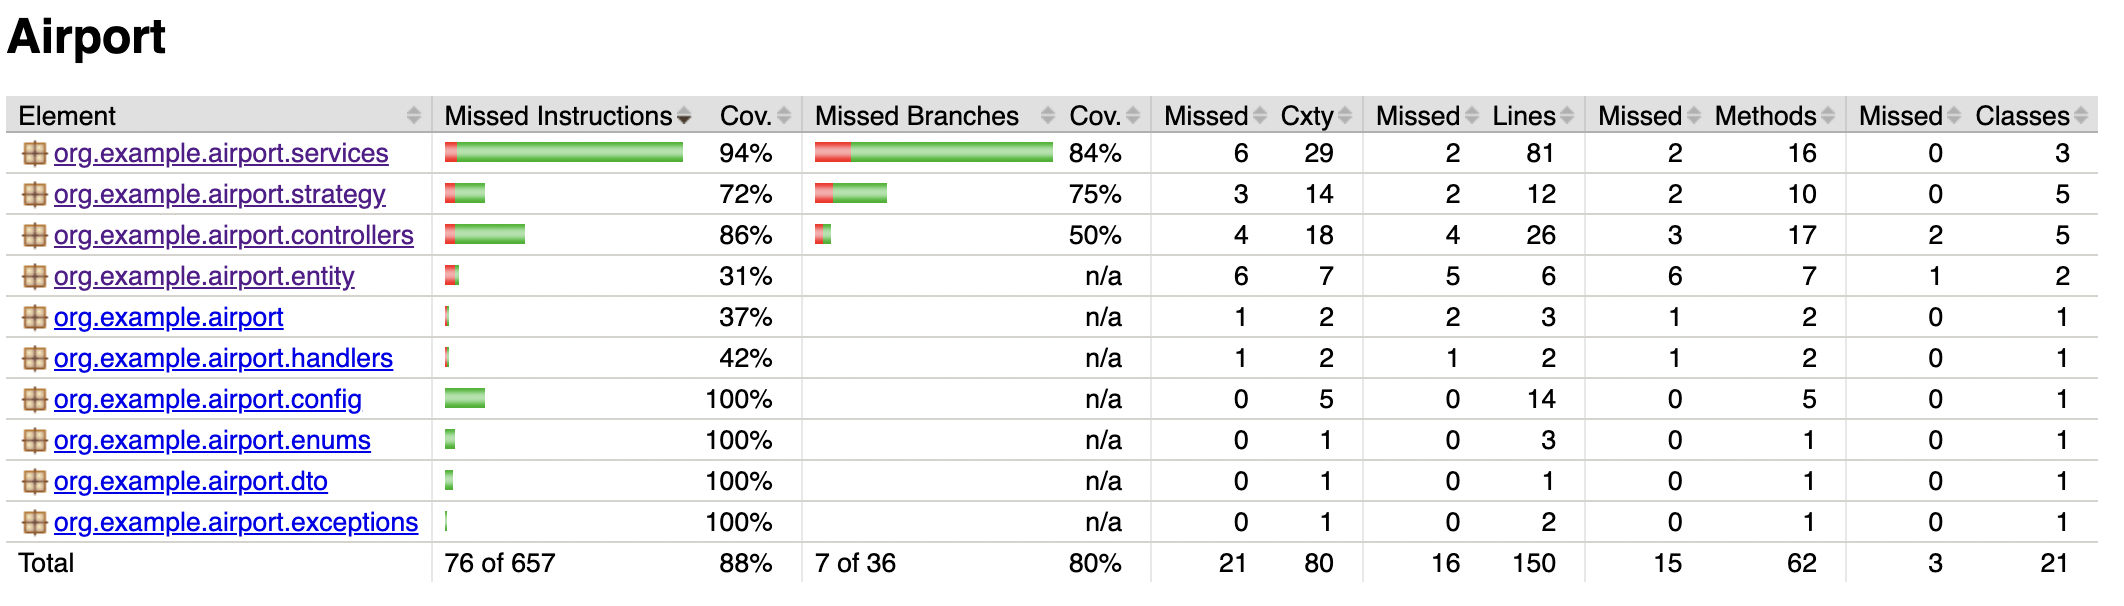
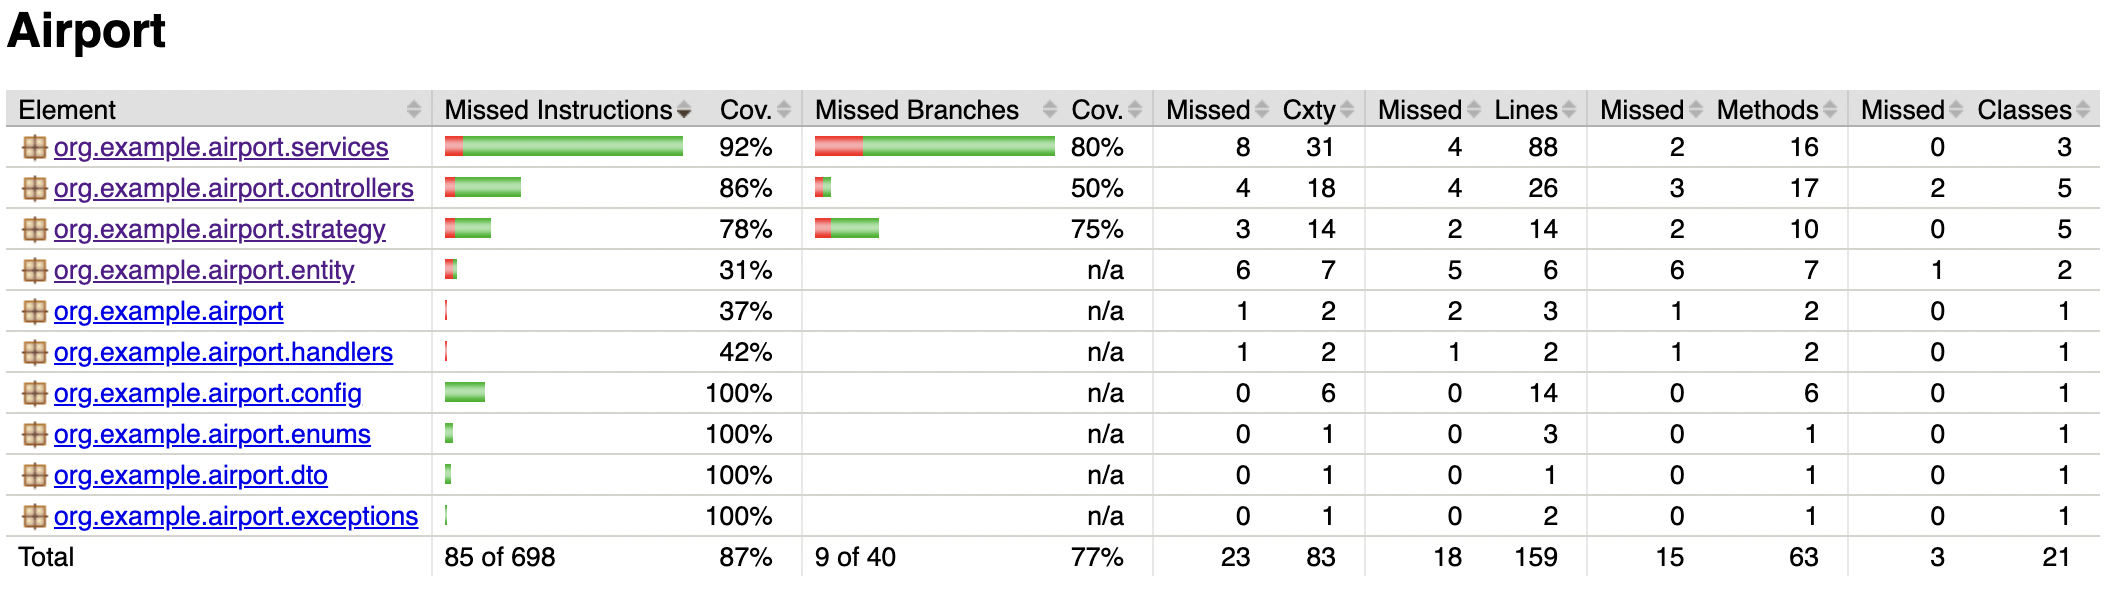
baggage check fix

Changed region(s): [[0.0, 0.15, 0.9981, 0.96], [0.0, 0.0, 0.0936, 0.09]]

diff --git a/src/main/java/org/example/airport/services/FlightService.java b/src/main/java/org/example/airport/services/FlightService.java
@@ -4,6 +4,7 @@ import lombok.RequiredArgsConstructor;
 import org.example.airport.dto.FlightReportDto;
 import org.example.airport.entity.Flight;
 import org.example.airport.entity.User;
+import org.example.airport.enums.TravelClass;
 import org.example.airport.repository.FlightRepository;
 import org.example.airport.repository.UserRepository;
 import org.example.airport.strategy.BaggageCheckStrategy;
@@ -34,7 +35,15 @@ public class FlightService {
             return ResponseEntity.badRequest().body("Lot już wystartował.");
         }
 
-        BaggageCheckStrategy strategy = strategyFactory.getStrategy(user.getTravelClass());
+        TravelClass travelClass = user.getTravelClass();
+        if (travelClass == null) {
+            return ResponseEntity.badRequest().body("Nie ustawiono klasy podróży.");
+        }
+
+        BaggageCheckStrategy strategy = strategyFactory.getStrategy(travelClass);
+        if (strategy == null) {
+            return ResponseEntity.internalServerError().body("Brak strategii dla klasy podróży: " + travelClass);
+        }
 
         if (!strategy.isAllowed(user.getBaggageWeight(), flight.getBaggageLimit())) {
             return ResponseEntity.badRequest().body("Twój bagaż przekracza limit i nie możesz zapisać się na lot.");
@@ -138,6 +147,8 @@ public class FlightService {
             dto.setDepartureTime(flight.getDepartureTime());
             dto.setPassengerCount(passengers.size());
             dto.setTotalBaggageWeight(totalBaggage);
+            dto.setSeatLimit(flight.getAvailableSeats());
+            dto.setBaggageLimit(flight.getBaggageLimit());
 
             reportList.add(dto);
         }

diff --git a/src/main/java/org/example/airport/strategy/BaggageCheckStrategyFactory.java b/src/main/java/org/example/airport/strategy/BaggageCheckStrategyFactory.java
@@ -4,19 +4,24 @@ import org.example.airport.enums.TravelClass;
 import org.springframework.beans.factory.annotation.Autowired;
 import org.springframework.stereotype.Component;
 
+import java.util.HashMap;
 import java.util.Map;
 
 @Component
 public class BaggageCheckStrategyFactory {
 
-    private final Map<String, BaggageCheckStrategy> strategies;
+    private final Map<TravelClass, BaggageCheckStrategy> strategies;
 
-    @Autowired
-    public BaggageCheckStrategyFactory(Map<String, BaggageCheckStrategy> strategies) {
-        this.strategies = strategies;
+    public BaggageCheckStrategyFactory(
+            EconomyBaggageStrategy economyStrategy,
+            BusinessBaggageStrategy businessStrategy
+    ) {
+        this.strategies = new HashMap<>();
+        strategies.put(TravelClass.ECONOMY, economyStrategy);
+        strategies.put(TravelClass.BUSINESS, businessStrategy);
     }
 
     public BaggageCheckStrategy getStrategy(TravelClass travelClass) {
-        return strategies.get(travelClass.name());
+        return strategies.get(travelClass);
     }
 }
